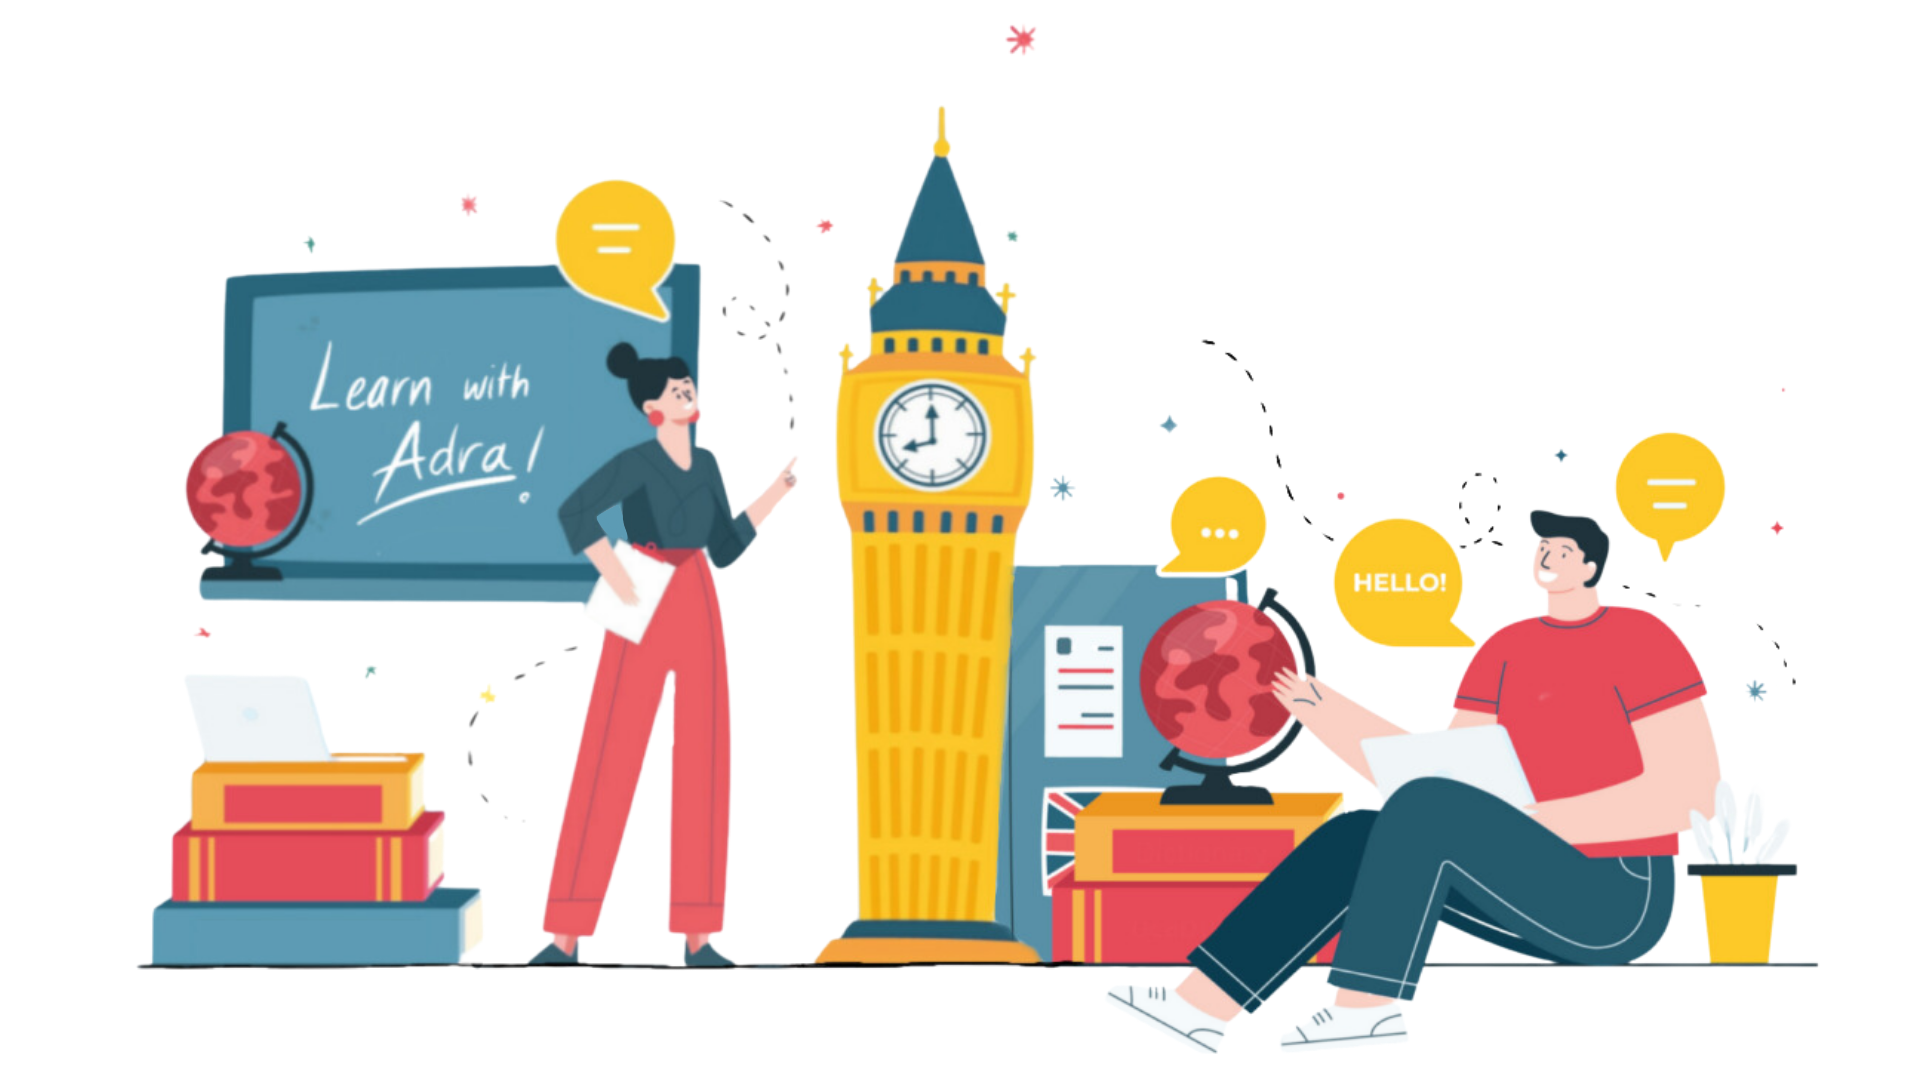
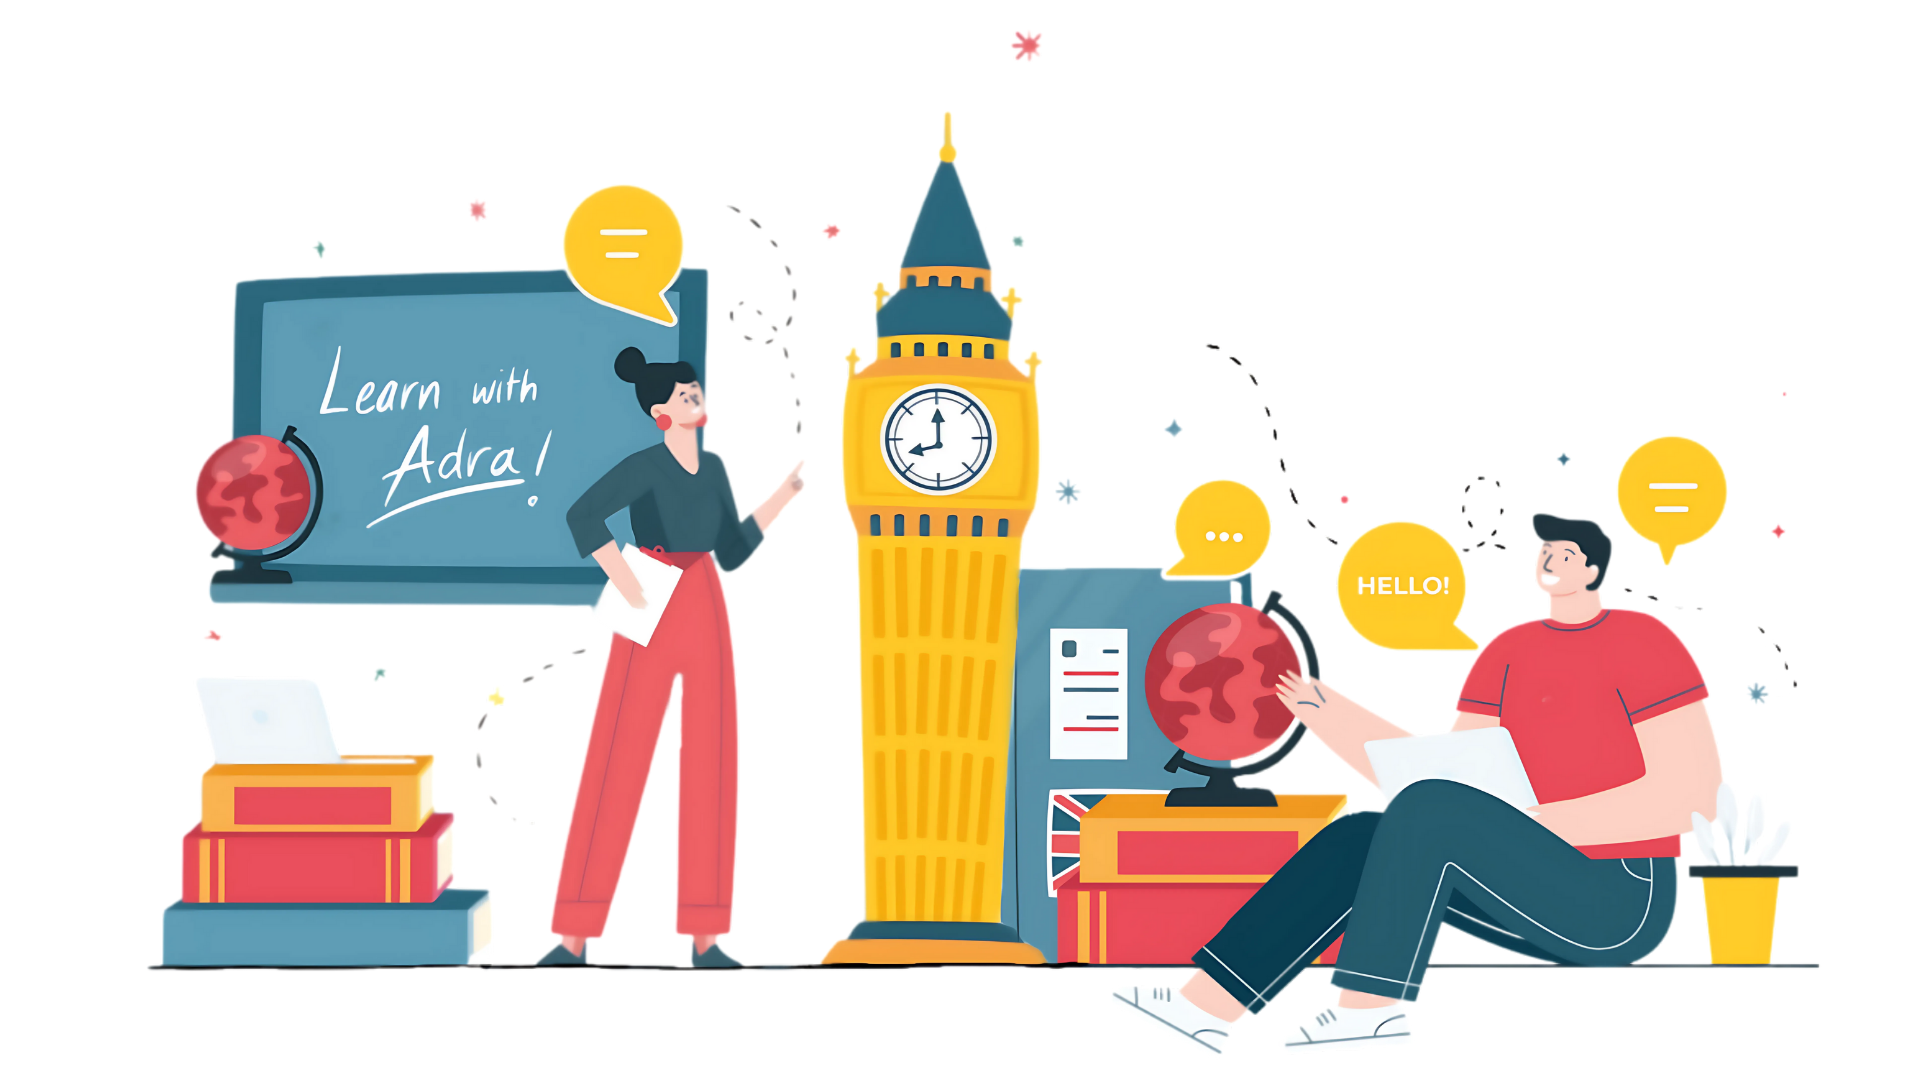
backgrond imagfe updated

diff --git a/src/components/header/Headerr.jsx b/src/components/header/Headerr.jsx
@@ -1,7 +1,7 @@
 
 import "./Header.scss";
 import TeacherSvg from "../svgs/teacher";
-import headerBackGreen from "/new-header-bg.png"
+import headerBackGreen from "/new-header-bg.jpg"
 import headerBackLeft from "/header-back-left.png"
 import headerMainImg from "/new-header-sticker.png"
 

diff --git a/src/components/header/Header.scss b/src/components/header/Header.scss
@@ -24,6 +24,7 @@
 
 .header-p-button-container {
     margin-top: 20px;
+    
 }
 
 .header-title {
@@ -66,9 +67,10 @@
 
 .header-person {
     z-index: 1;
-    max-height: 420px;
+    max-height: 600px;
     max-width: 100%;
     object-fit: contain;
+    margin-top: 50px;
 }
 
 
